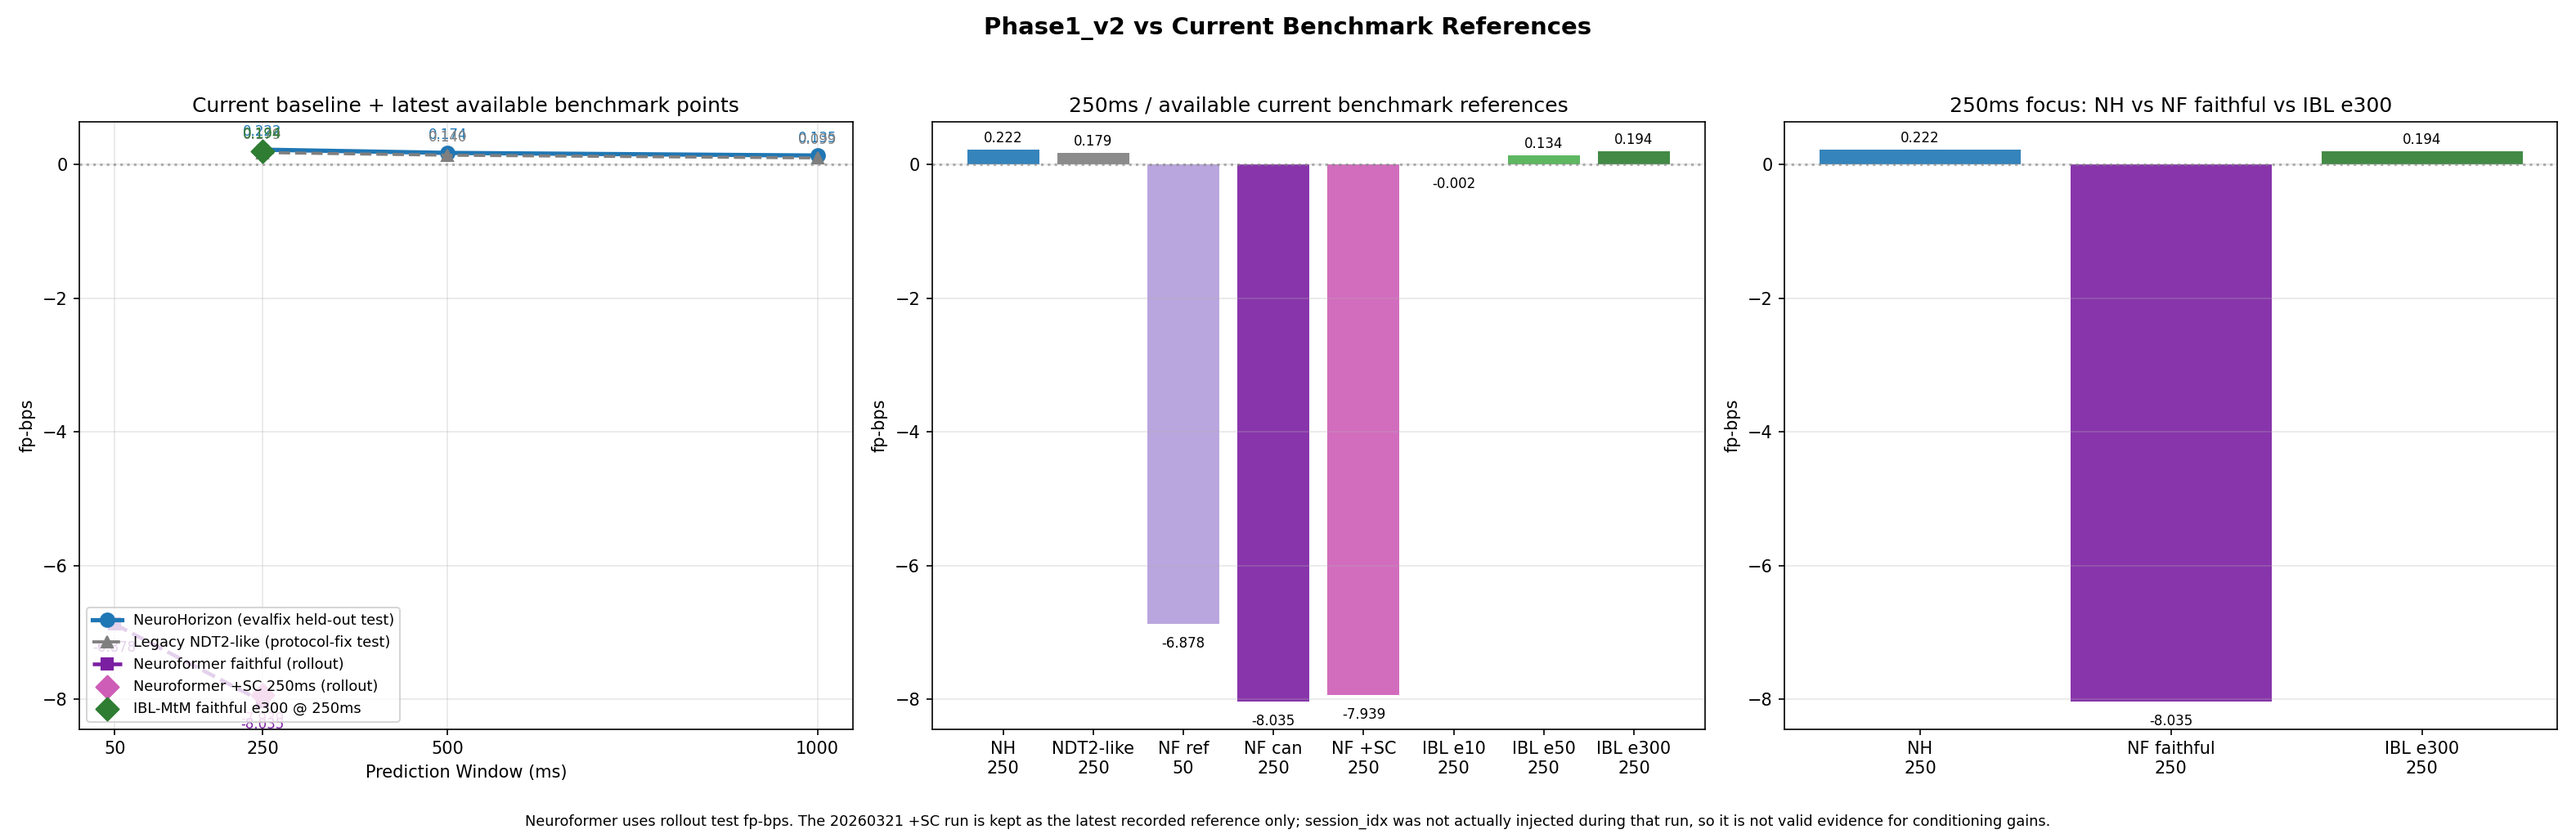
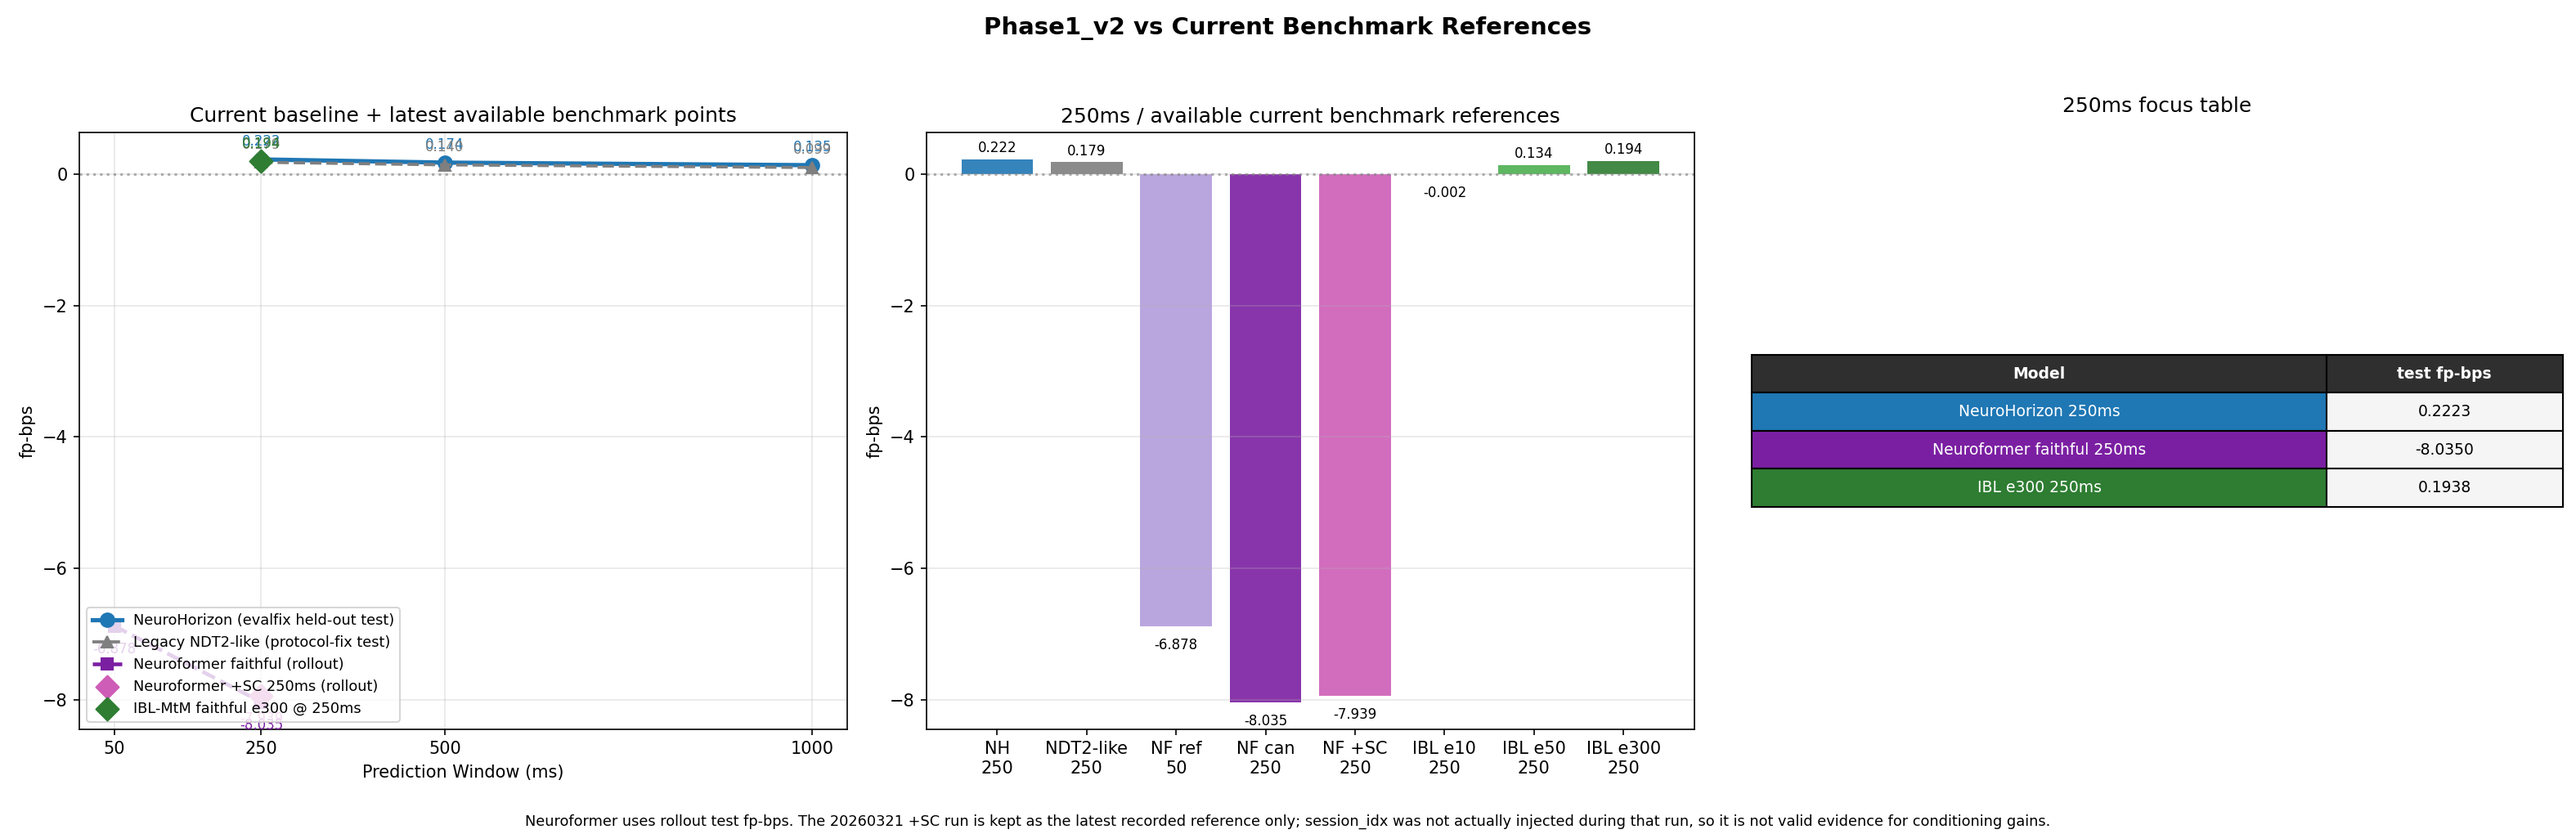
将06图右侧改为250ms对比表

diff --git a/scripts/analysis/neurohorizon/phase1_benchmark_compare.py b/scripts/analysis/neurohorizon/phase1_benchmark_compare.py
@@ -308,23 +308,40 @@ ax_reference.set_ylabel("fp-bps")
 ax_reference.set_title("250ms / available current benchmark references")
 ax_reference.grid(True, alpha=0.3, axis="y")
 
-# Panel C: focused 250ms comparison requested by user
+# Panel C: focused 250ms comparison table requested by user
 nf_can_250 = next(row for row in nf_results if row["label"] == "NF can 250ms")
-focus_labels = ["NH\n250", "NF faithful\n250", "IBL e300\n250"]
-focus_values = [
-    nh_results.get(250, np.nan),
-    nf_can_250["rollout_fp_bps"],
-    ibl_e300["fp_bps"],
+focus_rows = [
+    ("NeuroHorizon 250ms", nh_results.get(250, np.nan), "#1f77b4"),
+    ("Neuroformer faithful 250ms", nf_can_250["rollout_fp_bps"], "#7b1fa2"),
+    ("IBL e300 250ms", ibl_e300["fp_bps"], "#2e7d32"),
 ]
-focus_colors = ["#1f77b4", "#7b1fa2", "#2e7d32"]
-focus_bars = ax_focus_250.bar(np.arange(len(focus_labels)), focus_values, color=focus_colors, alpha=0.9)
-annotate_bars(ax_focus_250, focus_bars)
-ax_focus_250.axhline(0, color="gray", linestyle=":", alpha=0.6)
-ax_focus_250.set_xticks(np.arange(len(focus_labels)))
-ax_focus_250.set_xticklabels(focus_labels)
-ax_focus_250.set_ylabel("fp-bps")
-ax_focus_250.set_title("250ms focus: NH vs NF faithful vs IBL e300")
-ax_focus_250.grid(True, alpha=0.3, axis="y")
+ax_focus_250.axis("off")
+ax_focus_250.set_title("250ms focus table", pad=12)
+focus_table = ax_focus_250.table(
+    cellText=[[label, f"{value:.4f}"] for label, value, _ in focus_rows],
+    colLabels=["Model", "test fp-bps"],
+    cellLoc="center",
+    colLoc="center",
+    colWidths=[0.68, 0.28],
+    loc="center",
+)
+focus_table.auto_set_font_size(False)
+focus_table.set_fontsize(9)
+focus_table.scale(1.1, 2.0)
+
+for col_idx in range(2):
+    header = focus_table[(0, col_idx)]
+    header.set_facecolor("#2f2f2f")
+    header.get_text().set_color("white")
+    header.get_text().set_weight("bold")
+
+for row_idx, (_, _, color) in enumerate(focus_rows, start=1):
+    model_cell = focus_table[(row_idx, 0)]
+    value_cell = focus_table[(row_idx, 1)]
+    model_cell.set_facecolor(color)
+    model_cell.get_text().set_color("white")
+    if color in {"#1f77b4", "#7b1fa2", "#2e7d32"}:
+        value_cell.set_facecolor("#f5f5f5")
 
 fig.text(
     0.5,

diff --git a/progress.md b/progress.md
@@ -2428,3 +2428,19 @@
   - 左：全窗口/可用点位概览
   - 中：当前 benchmark reference 柱状图
   - 右：250ms 聚焦对比（NH / NF faithful / IBL e300）
+
+## 2026-03-25 14:48 CST - 将 06 图右侧 250ms 聚焦子图改为 table 展示
+
+**完成事项**：
+1. 修改 `scripts/analysis/neurohorizon/phase1_benchmark_compare.py`
+2. 将最右侧 250ms 聚焦 panel 从柱状图改为 table
+3. 保留同一批对比对象不变：
+   - `NeuroHorizon 250ms`
+   - `Neuroformer faithful 250ms`
+   - `IBL e300 250ms`
+4. 重新生成 `results/figures/phase1_v2/06_benchmark_comparison.png`
+5. 更新 `cc_todo/phase1-autoregressive/20260312-phase1-1.3.4-v2-experiment.md` 与 `cc_core_files/results.md`
+
+**执行结果**：
+- `06_benchmark_comparison.png` 最右侧现为 250ms 聚焦 table，不再使用柱状图
+- 左/中两个 panel 保持不变，仍沿用上一版的数据口径

diff --git a/cc_todo/phase1-autoregressive/20260312-phase1-1.3.4-v2-experiment.md b/cc_todo/phase1-autoregressive/20260312-phase1-1.3.4-v2-experiment.md
@@ -141,7 +141,7 @@ python scripts/analysis/neurohorizon/phase1_v2_visualize.py
 - `05_training_curves.png`：`continuous-only` 的训练曲线
 - `05_training_curves_trial_aligned.png`：`trial-aligned-only` 的训练曲线
 - `06_benchmark_comparison.png`：基于最新 benchmark reference 的补充对照图
-  - 右侧新增 250ms 聚焦子图：只保留 `NeuroHorizon 250ms`、`Neuroformer faithful 250ms`、`IBL e300 250ms`
+  - 最右侧改为 250ms 聚焦 table：只保留 `NeuroHorizon 250ms`、`Neuroformer faithful 250ms`、`IBL e300 250ms`
 
 **校正执行命令**：
 ```bash
